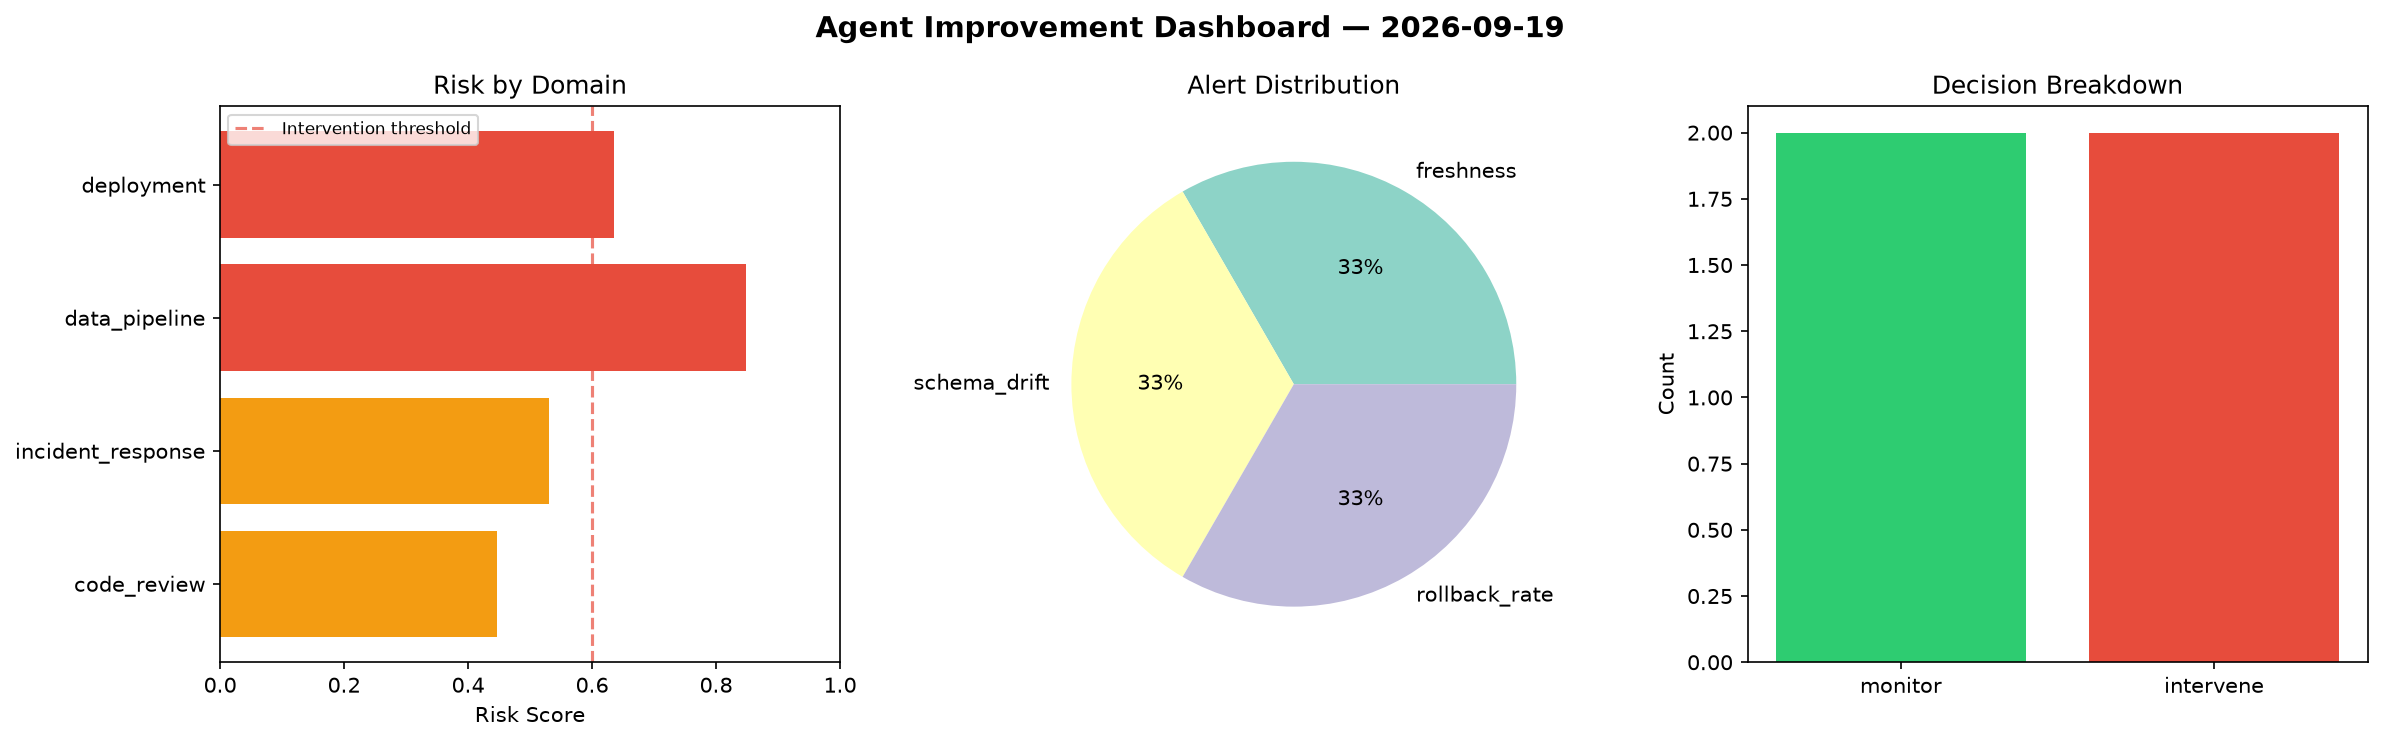
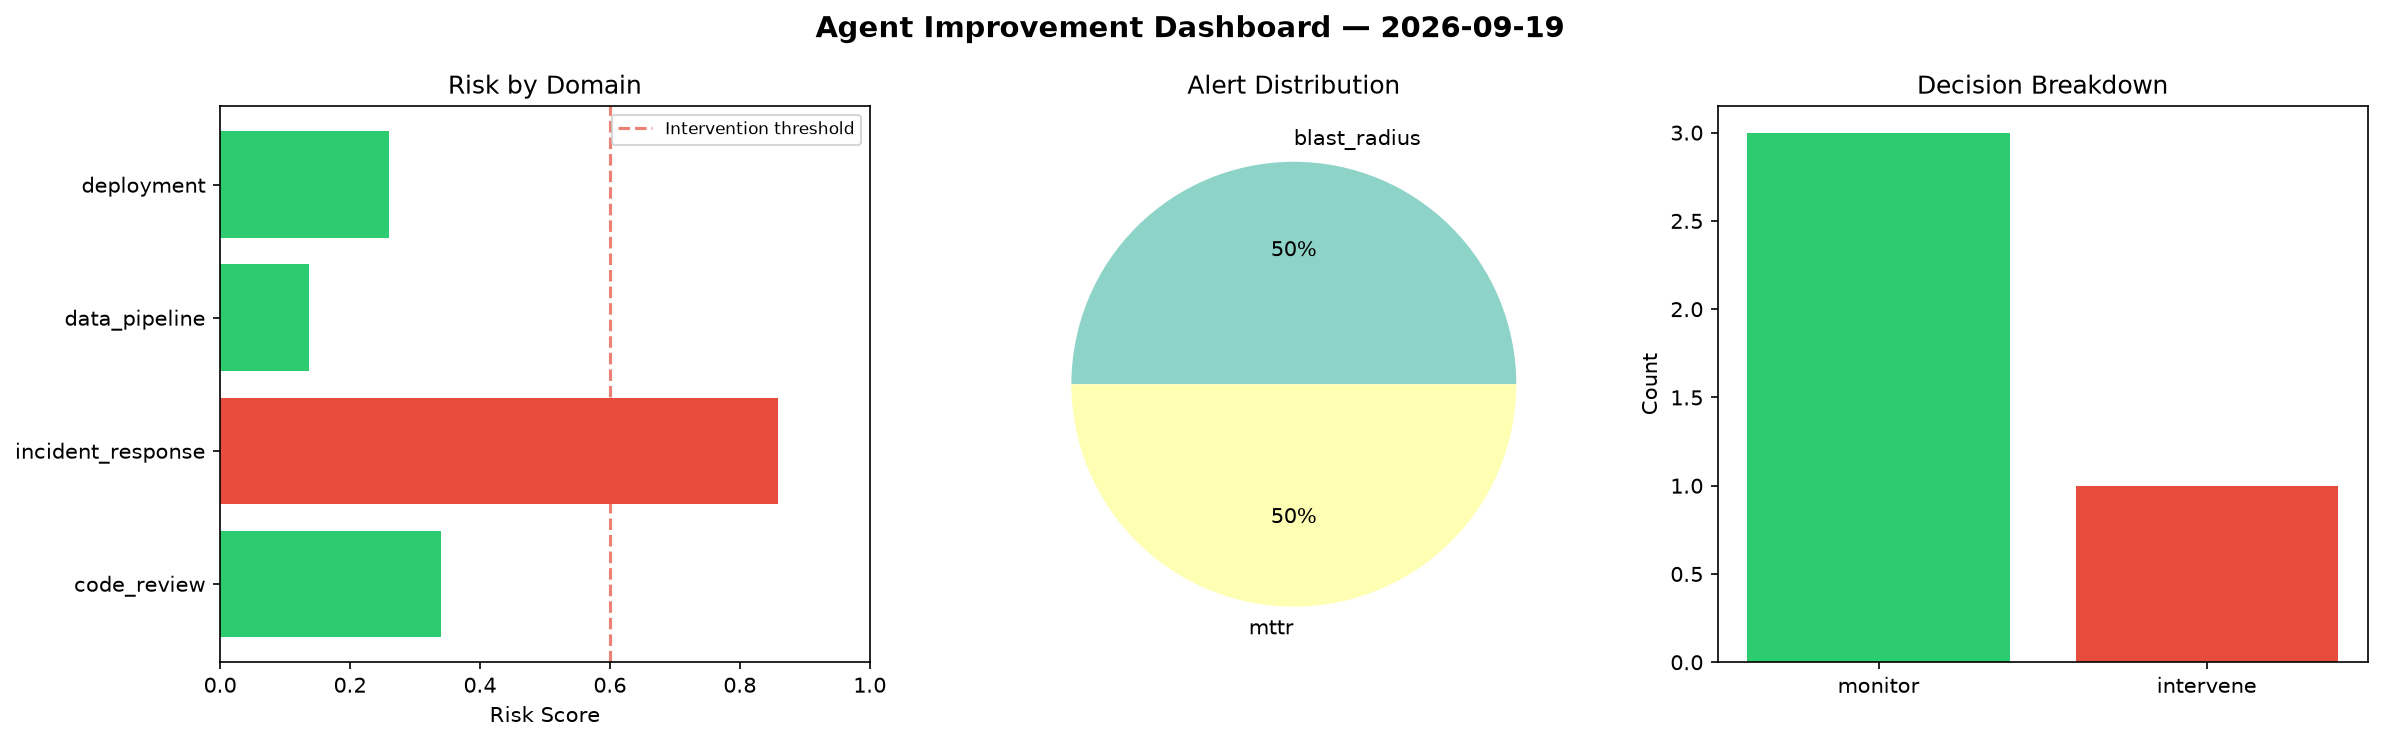
agent-improvement: daily cycle 2026-09-19T12:29

diff --git a/logs/2026-09-19.md b/logs/2026-09-19.md
@@ -1,6 +1,6 @@
 # Agent Improvement Report — 2026-09-19
 
-**Cycle ID:** `8b7b0d8b` | **Avg Risk:** 0.6154 | **Interventions:** 2/4
+**Cycle ID:** `f07ecc3b` | **Avg Risk:** 0.3986 | **Interventions:** 1/4
 
 ![Dashboard](2026-09-19_dashboard.png)
 
@@ -10,18 +10,18 @@
 
 | Domain | Risk Score | Decision | Alerts |
 |--------|-----------|----------|--------|
-| code_review | 0.4468 | monitor | none |
-| incident_response | 0.5311 | monitor | none |
-| data_pipeline | 0.8484 | intervene | freshness, schema_drift |
-| deployment | 0.6352 | intervene | rollback_rate |
+| code_review | 0.3396 | monitor | none |
+| incident_response | 0.8588 | intervene | blast_radius, mttr |
+| data_pipeline | 0.1367 | monitor | none |
+| deployment | 0.2594 | monitor | none |
 
 ## Delta vs Yesterday
 
 | Domain | Today | Yesterday | Change |
 |--------|-------|-----------|--------|
-| code_review | 0.4468 | 0.2897 | 📈 54.2% |
-| incident_response | 0.5311 | 0.6154 | 📉 -13.7% |
-| data_pipeline | 0.8484 | 0.6899 | 📈 23.0% |
-| deployment | 0.6352 | 0.375 | 📈 69.4% |
+| code_review | 0.3396 | 0.2897 | 📈 17.2% |
+| incident_response | 0.8588 | 0.6154 | 📈 39.6% |
+| data_pipeline | 0.1367 | 0.6899 | 📉 -80.2% |
+| deployment | 0.2594 | 0.375 | 📉 -30.8% |
 
-**Refinement:** `{'adjustment': 'tighten_thresholds', 'trend': 'degrading', 'window': 4}`
+**Refinement:** `{'adjustment': 'maintain', 'trend': 'improving', 'window': 4}`
